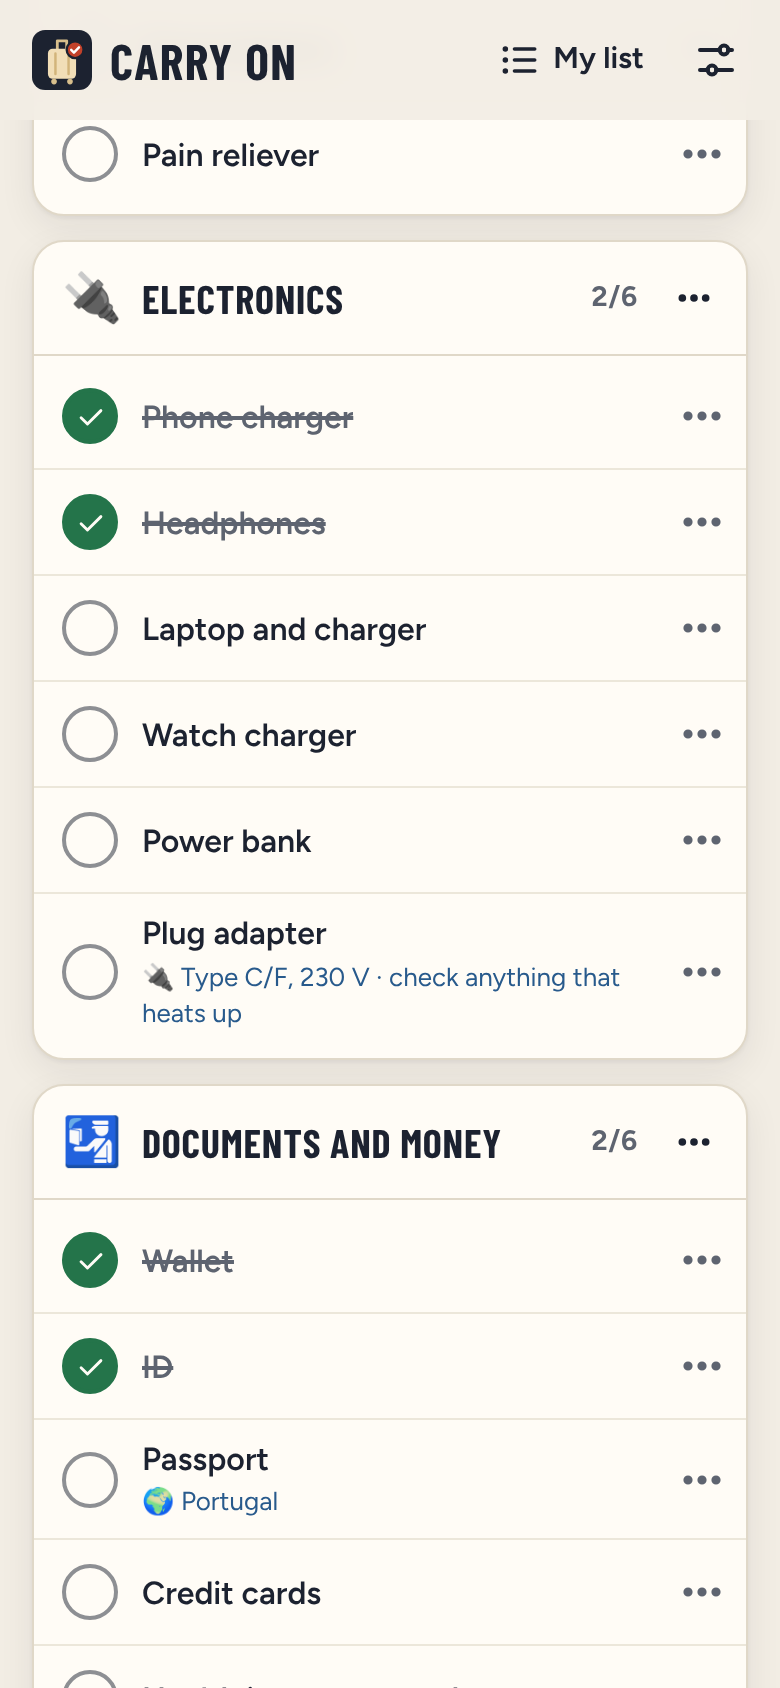
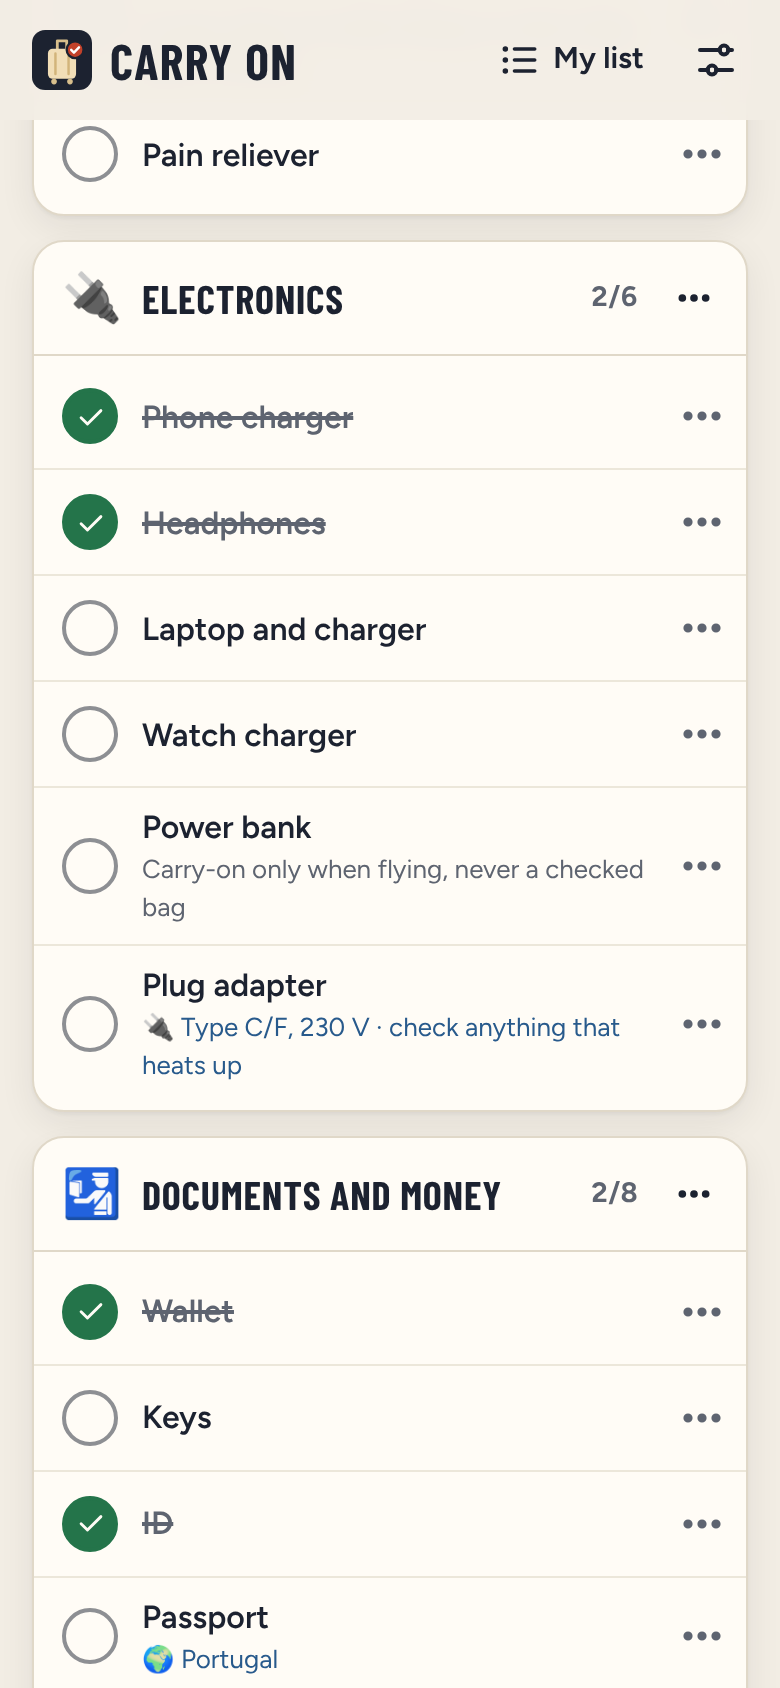
The starter list brings keys, tickets, glasses and a few more
A new starter list had no keys, no boarding pass, no glasses, nothing
for a long flight or the car, and the hotel checklist missed the fridge.
It now has Keys and Boarding pass or tickets (flying or the train) in
Documents and money, Glasses or contacts in the Toiletries bag, Neck
pillow (flying) in the Day bag, Sun hat (hot or strong sun) in Clothes,
Car charger (driving) in Electronics, and The fridge and the hooks on the
doors in Leaving the hotel. The power bank says it goes in a carry-on,
never a checked bag (TSA's rule for power banks), and the prescriptions
say to keep them in the carry-on when flying. Lists people already have
don't change. The README pictures are redrawn. This answers Mark's "A few
more things in the starter list".

Claude-Session: https://claude.ai/code/session_01UGkJaedPXbyAJUNALxtDdS

diff --git a/js/starter.js b/js/starter.js
@@ -1,5 +1,7 @@
 // The list someone starts with if they don't bring their own. It goes in untouched (model.js), so it
-// gives way to a list from another device. Each line: name, then | conditions, then | per-day.
+// gives way to a list from another device. Each line: name, then | conditions, then | per-day, then | a note.
+// The power bank's note is the airlines' rule: spare lithium batteries, power banks included, go in a carry-on and
+// never in a checked bag (TSA, "What can I bring? Power banks", read October 2026).
 const BAGS = [
   ['liquids', '🧴', 'Liquids bag', 'bag', 'Bottles 3.4 oz (100 ml) or less, in one quart bag, for a carry-on.', `
     Toothpaste
@@ -16,19 +18,23 @@ const BAGS = [
     Hairbrush or comb
     Nail clippers
     Lip balm
-    Prescriptions
+    Glasses or contacts
+    Prescriptions | | | In your carry-on when flying, in case a bag goes missing
     Pain reliever`],
   ['electronics', '🔌', 'Electronics', 'bag', '', `
     Phone charger
     Headphones
     Laptop and charger
     Watch charger
-    Power bank
+    Power bank | | | Carry-on only when flying, never a checked bag
+    Car charger | drive
     Plug adapter | plug`],
   ['documents', '🛂', 'Documents and money', 'bag', '', `
     Wallet
+    Keys
     ID
     Passport | abroad
+    Boarding pass or tickets | fly train
     Credit cards
     Health insurance card
     Some local cash | abroad`],
@@ -42,6 +48,7 @@ const BAGS = [
     Belt
     Swimsuit | swim hot
     Sandals | hot swim
+    Sun hat | hot sun
     Workout clothes | gym
     Something dressy | dressy
     Light jacket | cool
@@ -57,6 +64,7 @@ const BAGS = [
     Snacks
     Book or e-reader
     Eye mask and earplugs | fly train
+    Neck pillow | fly
     Bug spray | outdoors`],
   ['work', '💼', 'Work bag', 'bag', 'work', `
     Badge
@@ -70,6 +78,7 @@ const BAGS = [
   ['back', '🏨', 'Leaving the hotel', 'back', '', `
     Chargers out of the outlets
     The safe and the drawers
+    The fridge and the hooks on the doors
     The bathroom and the shower
     Under the bed and in the closet`],
 ];
@@ -81,9 +90,9 @@ export function starterList() {
     const isCond = extra === 'work';
     bags.push({ id: 's-' + id, name, icon, kind, when: isCond ? [extra] : [], unless: [], note: isCond ? '' : extra });
     for (const line of lines.trim().split('\n')) {
-      const [n, when = '', per = ''] = line.split('|').map(s => s.trim());
+      const [n, when = '', per = '', note = ''] = line.split('|').map(s => s.trim());
       const slug = n.toLowerCase().replace(/[^a-z0-9]+/g, '-').replace(/^-|-$/g, '');
-      items.push({ id: `s-${id}-${slug}`.slice(0, 48), name: n, bag: 's-' + id, when: when ? when.split(/\s+/) : [], unless: [], qty: 1, per: per === 'day' ? 'day' : '', note: '' });
+      items.push({ id: `s-${id}-${slug}`.slice(0, 48), name: n, bag: 's-' + id, when: when ? when.split(/\s+/) : [], unless: [], qty: 1, per: per === 'day' ? 'day' : '', note });
     }
   }
   return { bags, items, tags: [] };

diff --git a/README.md b/README.md
@@ -5,11 +5,11 @@
 **A packing list that knows the trip.** Keep everything you might pack in one list, sorted by the bag it goes in. Each trip gets its own fresh copy, matched to the forecast, where you're going and what you'll be doing, so there's nothing to uncheck afterwards. When it's time to come home, a second pass makes sure nothing stays behind at the hotel.
 
 <p align="center">
-  <img src="docs/phone-trips.png" alt="The trips screen: luggage tags for Lisbon in 3 days, 7 of 50 packed, and Reykjavík in 46 days, with the temperatures and rain for each" width="200">
+  <img src="docs/phone-trips.png" alt="The trips screen: luggage tags for Lisbon in 3 days, 7 of 55 packed, and Reykjavík in 46 days, with the temperatures and rain for each" width="200">
   &nbsp;
   <img src="docs/phone-trip.png" alt="A trip to Lisbon in 3 days: the dates and nights on a boarding pass, five days of forecast with rain on Friday, and what the trip calls for: flying, abroad, different plugs, hot, rain, strong sun and work" width="200">
   &nbsp;
-  <img src="docs/phone-bags.png" alt="Packing the Electronics bag: phone charger and headphones ticked, and a plug adapter on the list because Portugal's sockets are type C and F at 230 volts" width="200">
+  <img src="docs/phone-bags.png" alt="Packing the Electronics bag: phone charger and headphones ticked, the power bank's note saying it goes in a carry-on, never a checked bag, and a plug adapter on the list because Portugal's sockets are type C and F at 230 volts" width="200">
   &nbsp;
   <img src="docs/phone-item.png" alt="Changing Sunscreen in My list: just one, in the Liquids bag, and only when the trip calls for hot weather, strong sun or swimming" width="200">
 </p>
